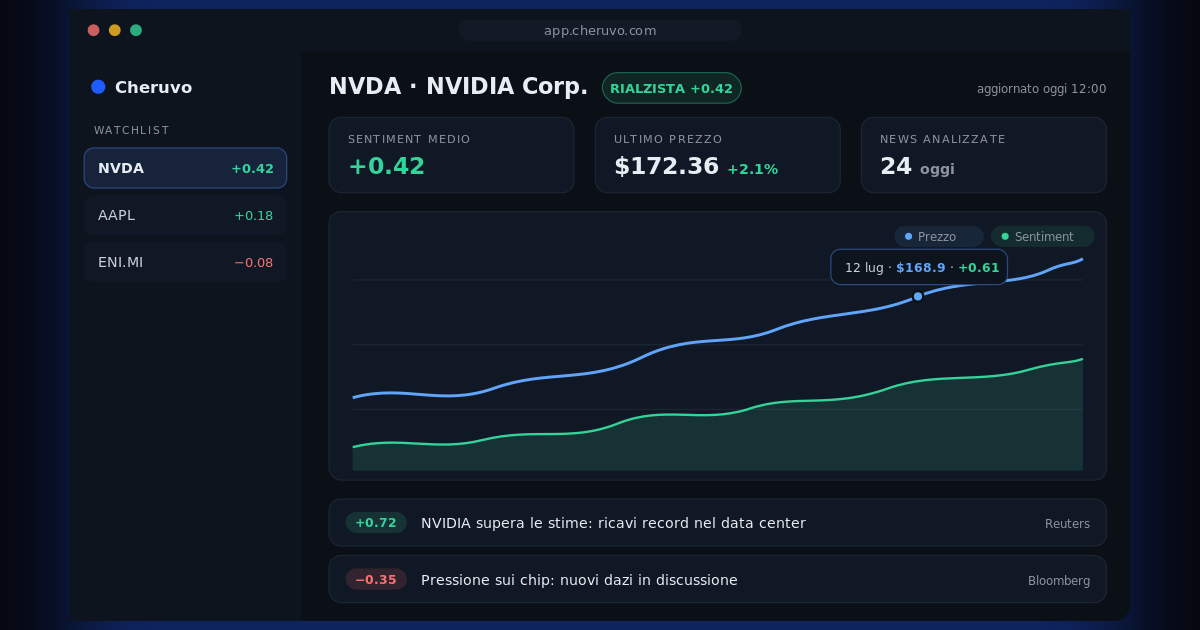
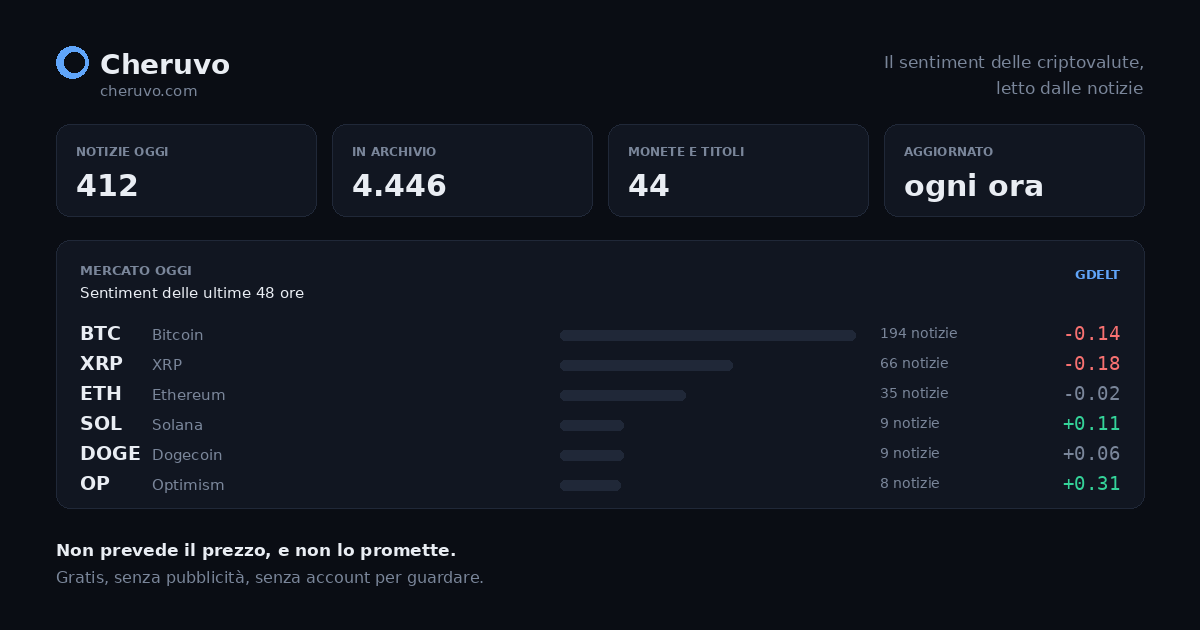
L'immagine di anteprima non cita piu' fonti che non abbiamo
E' l'immagine che compare quando qualcuno condivide cheruvo.com su X,
Reddit, WhatsApp o Telegram: il primo pezzo di prodotto che un
estraneo vede.

Quella vecchia era un mockup del 14 luglio con numeri inventati, ma il
problema serio era un altro: dichiarava Reuters e Bloomberg come fonti
delle notizie. Due testate che non abbiamo mai avuto in licenza, e
esattamente il tipo di fonte che il 7 agosto e' stata cancellata
dall'archivio proprio per quel motivo. Un moderatore o un giornalista
che avesse guardato l'anteprima avrebbe visto un prodotto che si
attribuisce dati altrui.

Mostrava anche NVDA come protagonista, mentre il prodotto adesso e'
sulle criptovalute.

La nuova ha solo numeri veri, letti dall'API di produzione: 412 notizie
oggi, 4.446 in archivio, 44 titoli, e la classifica con i sentiment di
adesso. La fonte dichiarata e' GDELT, che e' l'unica. E in fondo c'e'
la riga che nessun concorrente scrive: non prevede il prezzo, e non lo
promette.

docs/genera_og_image.py la rigenera, con un promemoria stampato: i
numeri sono scritti a mano e vanno riletti dall'API, altrimenti fra un
mese l'immagine ricomincia a raccontare cose vecchie.

diff --git a/docs/genera_og_image.py b/docs/genera_og_image.py
@@ -1,0 +1,92 @@
+"""
+Genera l'immagine di anteprima (Open Graph) di Cheruvo dai dati VERI.
+
+Sostituisce docs/og-image.png, che era un mockup del 14 luglio 2026 con
+numeri inventati e, cosa peggiore, con "Reuters" e "Bloomberg" indicati come
+fonti: due testate che Cheruvo non ha mai avuto in licenza e che il 7 agosto
+sono state cancellate dall'archivio proprio per quel motivo.
+
+Qui dentro ogni numero e' quello che il sito mostra adesso, e la fonte
+dichiarata e' GDELT, che e' l'unica.
+"""
+from PIL import Image, ImageDraw, ImageFont
+
+L = 1200
+A = 630
+
+SFONDO   = (10, 13, 20)
+PANNELLO = (17, 22, 33)
+BORDO    = (32, 40, 56)
+TESTO    = (233, 237, 243)
+FIOCO    = (122, 134, 154)
+VERDE    = (52, 211, 153)
+ROSSO    = (248, 113, 113)
+AZZURRO  = (96, 165, 250)
+
+F = "/usr/share/fonts/truetype/dejavu/DejaVuSans.ttf"
+FB = "/usr/share/fonts/truetype/dejavu/DejaVuSans-Bold.ttf"
+FM = "/usr/share/fonts/truetype/dejavu/DejaVuSansMono.ttf"
+
+def f(p, b=False, mono=False):
+    return ImageFont.truetype(FM if mono else (FB if b else F), p)
+
+img = Image.new("RGB", (L, A), SFONDO)
+d = ImageDraw.Draw(img)
+
+def pannello(x, y, w, h, r=14, sfondo=PANNELLO):
+    d.rounded_rectangle([x, y, x + w, y + h], radius=r, fill=sfondo, outline=BORDO, width=1)
+
+# ── intestazione ─────────────────────────────────────────────────────────
+d.ellipse([56, 46, 88, 78], fill=AZZURRO)
+d.ellipse([64, 52, 84, 72], fill=SFONDO)
+d.text((100, 48), "Cheruvo", font=f(28, True), fill=TESTO)
+d.text((100, 82), "cheruvo.com", font=f(15), fill=FIOCO)
+
+d.text((L - 56, 52), "Il sentiment delle criptovalute,", font=f(17), fill=FIOCO, anchor="ra")
+d.text((L - 56, 78), "letto dalle notizie", font=f(17), fill=FIOCO, anchor="ra")
+
+# ── quattro numeri veri ──────────────────────────────────────────────────
+METRICHE = [("NOTIZIE OGGI", "412"), ("IN ARCHIVIO", "4.446"),
+            ("MONETE E TITOLI", "44"), ("AGGIORNATO", "ogni ora")]
+x = 56
+larg = (L - 112 - 3 * 16) // 4
+for et, val in METRICHE:
+    pannello(x, 124, larg, 92)
+    d.text((x + 20, 144), et, font=f(12, True), fill=FIOCO)
+    d.text((x + 20, 168), val, font=f(30, True), fill=TESTO)
+    x += larg + 16
+
+# ── la classifica, coi numeri di adesso ──────────────────────────────────
+RIGHE = [("BTC", "Bitcoin", 194, -0.14), ("XRP", "XRP", 66, -0.18),
+         ("ETH", "Ethereum", 35, -0.02), ("SOL", "Solana", 9, +0.11),
+         ("DOGE", "Dogecoin", 9, +0.06), ("OP", "Optimism", 8, +0.31)]
+
+pannello(56, 240, L - 112, 268)
+d.text((80, 262), "MERCATO OGGI", font=f(13, True), fill=FIOCO)
+d.text((80, 284), "Sentiment delle ultime 48 ore", font=f(15), fill=TESTO)
+d.text((L - 80, 266), "GDELT", font=f(13, True), fill=AZZURRO, anchor="ra")
+
+y = 322
+for sig, nome, news, s in RIGHE:
+    col = VERDE if s > 0.08 else (ROSSO if s < -0.08 else FIOCO)
+    d.text((80, y), sig, font=f(19, True), fill=TESTO)
+    d.text((80 + 72, y + 4), nome, font=f(15), fill=FIOCO)
+    # barra proporzionale al numero di notizie
+    largh = int(max(0.08, (min(news, 200) / 200) ** 0.5) * 300)
+    d.rounded_rectangle([560, y + 8, 560 + largh, y + 18], radius=5, fill=BORDO)
+    d.text((880, y + 3), f"{news} notizie", font=f(14), fill=FIOCO)
+    d.text((L - 80, y), f"{s:+.2f}", font=f(19, True, mono=True), fill=col, anchor="ra")
+    y += 30
+
+# ── la riga che nessun concorrente scrive ────────────────────────────────
+d.text((56, 540), "Non prevede il prezzo, e non lo promette.",
+       font=f(17, True), fill=TESTO)
+d.text((56, 568), "Gratis, senza pubblicit\u00e0, senza account per guardare.",
+       font=f(16), fill=FIOCO)
+
+import os
+img.save(os.path.join(os.path.dirname(os.path.abspath(__file__)), "og-image.png"), optimize=True)
+print("creata docs/og-image.png", img.size)
+print("\nI numeri qui dentro sono scritti a mano: vanno riletti da")
+print("/api/market/today e /api/market/stats prima di rigenerare,")
+print("altrimenti l'immagine ricomincia a raccontare cose vecchie.")
